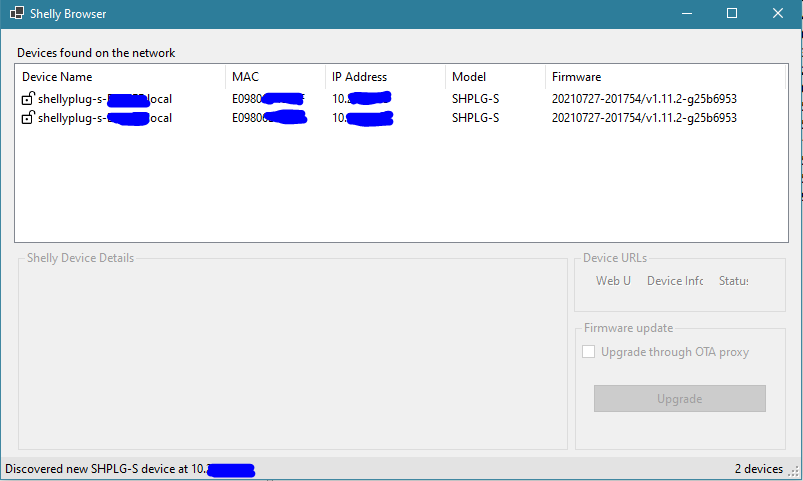
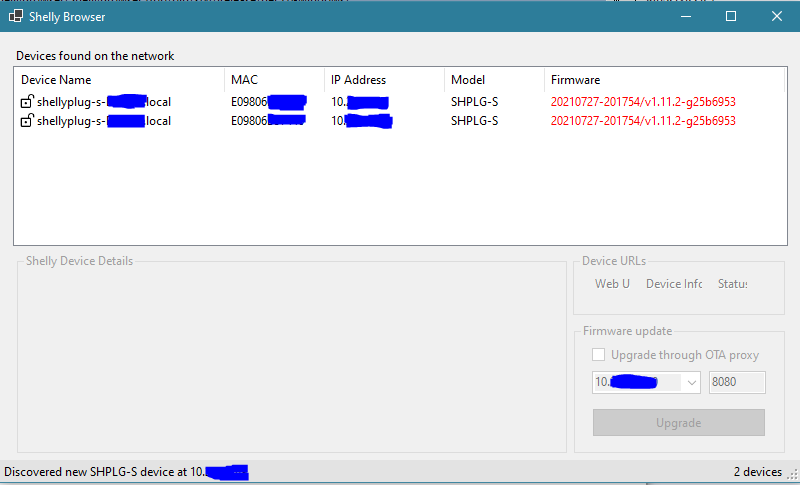
Executing netsh to add urlacl when proxy is enabled

Changed region(s): [[0.0, 0.0, 1.0, 0.5925], [0.7188, 0.6549, 0.9688, 0.9044], [0.0, 0.9356, 1.0, 1.0]]

diff --git a/ShellyBrowser.App/OtaService.cs b/ShellyBrowser.App/OtaService.cs
@@ -24,10 +24,12 @@ namespace ShellyBrowserApp
 
         private HttpListener listener = null;
         private bool started = false;
+        private string addr = null;
+        private string port = null;
 
         OtaService()
         {
-            //
+            // Intentionally left blank :)
         }
 
         public static OtaService Instance
@@ -53,28 +55,45 @@ namespace ShellyBrowserApp
                 Stop();
             }
 
+            addr = bindAddress;
+            port = bindPort;
+
             try
             {
                 listener = new();
                 listener.Prefixes.Clear();
-                listener.Prefixes.Add($"http://{bindAddress}:{bindPort}/{UrlPrefix}/");
+                Netsh.AddUrlAcl($"http://{addr}:{port}/{UrlPrefix}/");
+                listener.Prefixes.Add($"http://{addr}:{port}/{UrlPrefix}/");
                 listener.Start();
                 started = true;
+
+                // do something to handle requests here,
+                // start handler thread etc
             }
             catch (HttpListenerException exc) {
                 // In case of an exception, the listener seems to be already disposed, so subsequent start() calls will fail!
-                MessageBox.Show($"Exception while trying to bind to {bindAddress}:{bindPort}:\n{exc}");
+                MessageBox.Show($"Exception while trying to bind to {addr}:{port}:\n{exc}");
                 Stop();
             }
         }
 
         public void Stop()
         {
+            // In case the UrlAcl was added but then te listener threw an exception, we need to
+            // be able to remove the previously added Acl; since at stop time we explicitly set the
+            // address/port to null, we can can use that to check if we have something to remove
+            if (addr is not null)
+            {
+                Netsh.DeleteUrlAcl($"http://{addr}:{port}/{UrlPrefix}/");
+            }
+
             if (started)
             {
                 listener.Stop();
                 listener.Close();
                 started = false;
+                addr = null;
+                port = null;
             }
         }
 
@@ -93,6 +112,11 @@ namespace ShellyBrowserApp
                     Firmwares.Add(firmware.deviceModel, response);
                 }
             }
+        }
+
+        public static string GetDownloadAddress(string bindAddress, string bindPort, string deviceModel)
+        {
+            return $"http://{bindAddress}:{bindPort}/{UrlPrefix}/{deviceModel}";
         }
     }
 }

diff --git a/ShellyBrowser.App/Netsh.cs b/ShellyBrowser.App/Netsh.cs
@@ -1,0 +1,50 @@
+using System;
+using System.Collections.Generic;
+using System.ComponentModel;
+using System.Diagnostics;
+using System.IO;
+using System.Linq;
+using System.Text;
+using System.Threading.Tasks;
+
+namespace ShellyBrowserApp
+{
+    public class Netsh
+    {
+        private static bool Command(string cmd)
+        {
+            var netsh = Path.Combine(Environment.GetFolderPath(Environment.SpecialFolder.System), "netsh.exe");
+            var startInfo = new ProcessStartInfo(netsh);
+
+            startInfo.Arguments = cmd;
+            startInfo.UseShellExecute = true;
+            startInfo.Verb = "runas";
+
+            try
+            {
+                var process = Process.Start(startInfo);
+                process.WaitForExit();
+            }
+            catch (FileNotFoundException)
+            {
+                return false;
+            }
+            catch (Win32Exception)
+            {
+                return false;
+            }
+
+            return true;
+        }
+
+        public static bool AddUrlAcl(string url)
+        {
+            return Command($"http add urlacl url={url} user=Users listen=yes");
+        }
+
+        public static bool DeleteUrlAcl(string url)
+        {
+            return Command($"http delete urlacl url={url}");
+        }
+    }
+}

diff --git a/ShellyBrowser.App/ShellyBrowser.cs b/ShellyBrowser.App/ShellyBrowser.cs
@@ -96,9 +96,6 @@ namespace ShellyBrowserApp
 
             if (presenter.isOtaSelected)
             {
-                // Once the feature is working properly, will nove the proxy startup/shutdown here,
-                // so we're not listening on the port all the time when the user clicks the checkbox
-
                 var firmware = ShellyFirmwareAPI.getLatestFirmware(device);
                 await OtaService.Instance.PreloadAsync(firmware);
                 //await device.StartUpdate($"http://{presenter.otaBindAddress}:{presenter.otaBindPort}/ota/someurl");
@@ -119,12 +116,12 @@ namespace ShellyBrowserApp
         {
             if (presenter.isOtaSelected)
             {
-                //OtaService.Instance.Start(presenter.otaBindAddress, presenter.otaBindPort);
+                OtaService.Instance.Start(presenter.otaBindAddress, presenter.otaBindPort);
                 presenter.UpdateStatus("Proxy enabled");
             }
             else
             {
-                //OtaService.Instance.Stop();
+                OtaService.Instance.Stop();
                 presenter.UpdateStatus("Proxy disabled");
             }
         }
